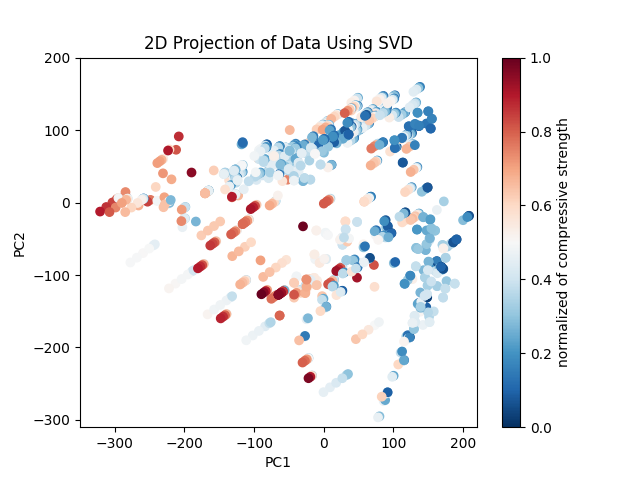
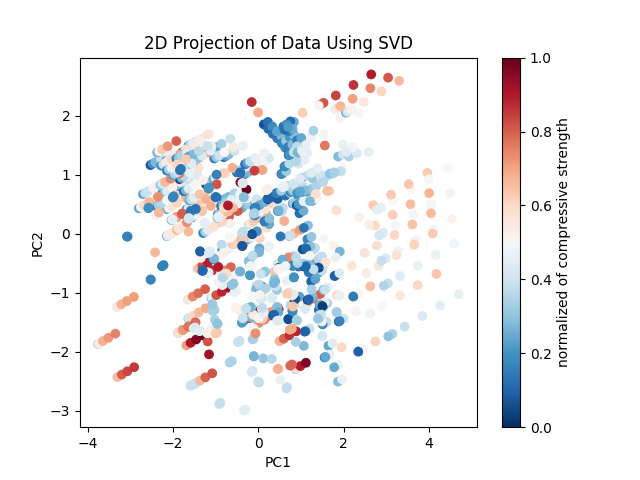
Bunch of changes
* Use StandardScaler instead of manual calculation
* Simplify stuff
* Rename diagrams and save all of them

diff --git a/visualization.py b/visualization.py
@@ -7,9 +7,9 @@ from mpl_toolkits.mplot3d import Axes3D
 import seaborn as sns
 
 
-def project_to3d(title, normalized_df, sorted_eigenvectors, strength_norm):
+def project_to3d(title, df, sorted_eigenvectors, strength_norm):
     basis_vectors = sorted_eigenvectors[:, 0:3]
-    projected_data = np.dot(normalized_df, basis_vectors)
+    projected_data = np.dot(df, basis_vectors)
     x = projected_data[:, 0]
     y = projected_data[:, 1]
     z = projected_data[:, 2]
@@ -19,9 +19,9 @@ def project_to3d(title, normalized_df, sorted_eigenvectors, strength_norm):
     ax.set_xlabel('PC1')
     ax.set_ylabel('PC2')
     ax.set_zlabel('PC3')
-    ax.set_xlim(-350, 220)
-    ax.set_ylim(-310, 200)
-    ax.set_zlim(-300, 250)
+    # ax.set_xlim(-350, 220)
+    # ax.set_ylim(-310, 200)
+    # ax.set_zlim(-300, 250)
     ax.set_title(title)
     plt.savefig(f'plots/{title}.png')
     plt.show()
@@ -41,11 +41,11 @@ def project_to3d(title, normalized_df, sorted_eigenvectors, strength_norm):
     ax.set_xlabel('PC1')
     ax.set_ylabel('PC2')
     ax.set_zlabel('PC3')
-    ax.set_xlim(-350, 220)
-    ax.set_ylim(-310, 200)
-    ax.set_zlim(-300, 250)
+    # ax.set_xlim(-350, 220)
+    # ax.set_ylim(-310, 200)
+    # ax.set_zlim(-300, 250)
     plt.title('Plot of Strongest 20% of Data')
-    plt.savefig(f'plots/best3d.png')
+    plt.savefig(f'plots/strongest_20.png')
     plt.show()
 
     df = pd.DataFrame(projected_data)
@@ -62,20 +62,20 @@ def project_to3d(title, normalized_df, sorted_eigenvectors, strength_norm):
     ax.set_xlabel('PC1')
     ax.set_ylabel('PC2')
     ax.set_zlabel('PC3')
-    ax.set_xlim(-350, 220)  
-    ax.set_ylim(-310, 200)  
-    ax.set_zlim(-300, 250)  
+    # ax.set_xlim(-350, 220)
+    # ax.set_ylim(-310, 200)
+    # ax.set_zlim(-300, 250)
     plt.title('Plot of Weakest 20% of Data')
-    plt.savefig(f'plots/worst3d.png')
+    plt.savefig(f'plots/3d_weakest_20.png')
     plt.show()
 
     return basis_vectors
 
 
-def project_to2d(title, cbar_label, normalized_df, eigenvectors, strength_norm):
+def project_to2d(title, cbar_label, df, eigenvectors, strength_norm):
     # Project data to the first two principal components (2D space)
     basis_vectors = eigenvectors[:, 0:2]
-    projected_data = np.dot(normalized_df, basis_vectors)
+    projected_data = np.dot(df, basis_vectors)
     x = projected_data[:, 0]
     y = projected_data[:, 1]
 
@@ -83,8 +83,8 @@ def project_to2d(title, cbar_label, normalized_df, eigenvectors, strength_norm):
     plt.scatter(x, y, c=strength_norm, cmap='RdBu_r')
     plt.xlabel('PC1')
     plt.ylabel('PC2')
-    plt.xlim(-350, 220)
-    plt.ylim(-310, 200)
+    # plt.xlim(-350, 220)
+    # plt.ylim(-310, 200)
     plt.title(title)
     cbar = plt.colorbar()
     cbar.set_label(cbar_label)
@@ -113,8 +113,8 @@ def project_to2d(title, cbar_label, normalized_df, eigenvectors, strength_norm):
     # Set axis labels and limits
     plt.xlabel('PC1')
     plt.ylabel('PC2')
-    plt.xlim(-350, 220)
-    plt.ylim(-310, 200)
+    # plt.xlim(-350, 220)
+    # plt.ylim(-310, 200)
 
     # Add a title and a legend to distinguish between the groups
     plt.title('Full Data Set: Strongest, Middle, and Weakest 33%')
@@ -140,15 +140,15 @@ def eigenvalue_plot(cumulative_variance, percentile):
     plt.ylabel('Variance Explained')
     plt.legend()
     plt.title('Explained Variance by Principal Components')
-    plt.savefig('plots/Explained_variance.png')
+    plt.savefig('plots/explained_variance.png')
     plt.grid()
     plt.show()
 
 
-def find_coeff(normalized_df, attribute_labels):
-    U, S, Vt = np.linalg.svd(normalized_df, full_matrices=False)
+def find_coeff(df, attribute_labels):
+    U, S, Vt = np.linalg.svd(df, full_matrices=False)
     V = Vt.T
-    N, M = normalized_df.shape
+    N, M = df.shape
 
     pcs = [0, 1, 2]
     legendStrs = ["PC" + str(e + 1) for e in pcs]
@@ -162,9 +162,12 @@ def find_coeff(normalized_df, attribute_labels):
     plt.legend(legendStrs)
     plt.grid()
     plt.title("PCA Component Coefficients")
+    plt.savefig(f'plots/pca_coefficients.png')
     plt.show()
 
-def histograms(df_vectors, attribute_labels):
+def histograms(df, attribute_labels):
+    df_vectors = df.to_numpy()
+    print(df.head())
     num_cols = df_vectors.shape[1]
 
     _, axes = plt.subplots(2, 4, figsize=(12, 6))
@@ -205,15 +208,38 @@ def histograms(df_vectors, attribute_labels):
         ax.set_title(f'{attribute_labels[col]}')
 
     plt.tight_layout(pad=2.0)
+    plt.savefig(f'plots/histograms.png')
     plt.show()
 
-def correlation_matrix(normalized_df, attribute_labels):
-    df = pd.DataFrame(normalized_df, columns=attribute_labels)
+
+def correlation_matrix(df, attribute_labels):
     
-    corrMatrix = df.corr()
+    # Filter only numeric columns
+    numeric_df = df.select_dtypes(include=[float, int])
+    print(f"Head {df.head()}")  # Debug: Check numeric shape
     
+    # Calculate correlation matrix
+    corrMatrix = numeric_df.corr()
+    print("Correlation matrix:\n", corrMatrix)  # Debug: Print correlation matrix
+
+    # Check if correlation matrix is valid (not empty)
+    if corrMatrix.shape[0] <= 1:
+        print("Insufficient data for correlation matrix. At least two numeric columns are required.")
+        return
+
+    # Plot the heatmap
     plt.figure(figsize=(8, 8))
-    sns.heatmap(corrMatrix, annot=True, cmap='coolwarm', linewidths=0.5, xticklabels=attribute_labels, yticklabels=attribute_labels)
+    sns.heatmap(
+        corrMatrix,
+        annot=True,
+        cmap='coolwarm',
+        linewidths=0.5,
+        xticklabels=attribute_labels,
+        yticklabels=attribute_labels
+    )
     plt.title('Correlation Matrix Heatmap')
     plt.subplots_adjust(bottom=0.2)
+
+    # Save and show plot
+    plt.savefig('plots/correlation_matrix.png')
     plt.show()

diff --git a/main.py b/main.py
@@ -1,30 +1,39 @@
 import pandas as pd
-import numpy as np
-import COV
-import SVD
-import label
-import visualization
+from sklearn.preprocessing import StandardScaler
+import SVD, visualization
 
-compres_strength = 'Concrete compressive strength(MPa, megapascals) '
-df_orig = pd.read_excel('concrete+compressive+strength/Concrete_Data.xls')
-df = df_orig.loc[:, df_orig.columns != 'Concrete compressive strength(MPa, megapascals) ']
+def preprocess(df):
+    scaler = StandardScaler()
+
+    df_log_norm_std = scaler.fit_transform(df)
+    return pd.DataFrame(df_log_norm_std, columns=df.columns)
+
 
 attribute_labels = ["Cement", "B.F. Slag", "Fly Ash", "Water", "Superplast.", "Coarse Aggr.", "Fine Aggr", "Age"]
+compress_strength = "Concrete compressive strength(MPa, megapascals) "
 
 
-#normailzing strength for vizualisation
-strength_norm = ((df_orig[compres_strength] - df_orig[compres_strength].min()) /
-                 (df_orig[compres_strength].max() - df_orig[compres_strength].min()))
+if __name__ == "__main__":
+    # load data
+    df_orig = pd.read_excel("concrete+compressive+strength/Concrete_Data.xls")
 
-#normalizing the vectors / subtracting the mean
-row_count = len(df.columns)
-df_vectors = df.to_numpy()
-average_vector = np.mean(df_vectors, axis=0)
-normalized_df = (df_vectors - average_vector)
+    #normailzing strength for vizualisation
+    strength_norm = ((df_orig[compress_strength] - df_orig[compress_strength].min()) /
+                    (df_orig[compress_strength].max() - df_orig[compress_strength].min()))
 
+    # use only attributes for std
+    df_attributes = df_orig.loc[:, df_orig.columns != compress_strength]
 
-visualization.find_coeff(normalized_df, attribute_labels)
-visualization.histograms(df_vectors, attribute_labels)
-visualization.correlation_matrix(normalized_df, attribute_labels)
-#COV.perform_cov(normalized_df, strength_norm)
-SVD.perform_svd(normalized_df, strength_norm)
+    # We add 1 to avoid negative numbers
+    df_preproc = preprocess(df_attributes)
+
+    print(df_preproc.head())
+    # visualization
+    visualization.find_coeff(df_preproc, attribute_labels)
+    print(df_preproc.head())
+    visualization.histograms(df_preproc, attribute_labels)
+    print(df_preproc.head())
+    visualization.correlation_matrix(df_preproc, attribute_labels)
+
+    #
+    SVD.perform_svd(df_preproc, strength_norm)
